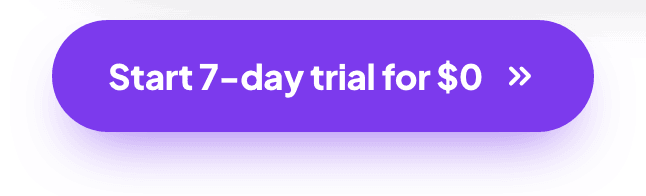
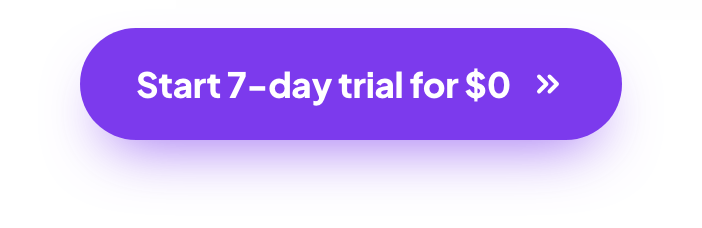
Add the Cloud or self-host choice, a moving demo and a star ask to the README.
- "Post today, not after the API reviews": two cards at the top of the
  cloud section. PostQueen Cloud (recommended) links to the trial; the
  self-hosted card says what running it takes, including waiting for
  each network's app review, and links to the self-hosting guide.
- The site's hero demo as a GIF under the badges (Claude plans a week,
  four posts land on the calendar), linked to the trial. It replaces the
  static app preview, which showed the same scene.
- "Like PostQueen? Star the repo" under the badges.
- Wider margins in every picture so shadows fade inside the image, and
  lossless PNGs for the purple ones, which showed a box on dark GitHub.

Changed region(s): [[0.0619, 0.0918, 0.9288, 0.7959], [0.1548, 0.3061, 0.8359, 0.5204]]

diff --git a/README.md b/README.md
@@ -20,7 +20,7 @@
 </p>
 
 <p align="center">
-  <a href="https://app.postqueen.ai/auth?utm_source=github&utm_medium=readme&utm_campaign=postqueen-app&utm_content=hero-button"><picture><source media="(prefers-color-scheme: dark)" srcset=".github/assets/showcase/btn-trial-dark.png"><img src=".github/assets/showcase/btn-trial-light.png" width="323" alt="Start 7-day trial for $0"></picture></a><a href="https://docs.postqueen.ai/agents/overview"><picture><source media="(prefers-color-scheme: dark)" srcset=".github/assets/showcase/btn-agent-dark.png"><img src=".github/assets/showcase/btn-agent-light.png" width="297" alt="Connect your AI agent"></picture></a>
+  <a href="https://app.postqueen.ai/auth?utm_source=github&utm_medium=readme&utm_campaign=postqueen-app&utm_content=hero-button"><picture><source media="(prefers-color-scheme: dark)" srcset=".github/assets/showcase/btn-trial-dark.png"><img src=".github/assets/showcase/btn-trial-light.png" width="351" alt="Start 7-day trial for $0"></picture></a><a href="https://docs.postqueen.ai/agents/overview"><picture><source media="(prefers-color-scheme: dark)" srcset=".github/assets/showcase/btn-agent-dark.png"><img src=".github/assets/showcase/btn-agent-light.png" width="325" alt="Connect your AI agent"></picture></a>
 </p>
 
 <p align="center">
@@ -46,6 +46,14 @@
 </p>
 
 <p align="center">
+  <a href="https://github.com/GkhanKINAY/postqueen-app/stargazers"><picture><source media="(prefers-color-scheme: dark)" srcset=".github/assets/showcase/star-dark.png"><img src=".github/assets/showcase/star-light.png" width="380" alt="Like PostQueen? Star the repo. It helps others find it."></picture></a>
+</p>
+
+<p align="center">
+  <a href="https://app.postqueen.ai/auth?utm_source=github&utm_medium=readme&utm_campaign=postqueen-app&utm_content=demo-gif"><img src=".github/assets/showcase/demo.gif" width="100%" alt="Demo: in Claude, someone asks PostQueen to plan next week's posts for Instagram, TikTok, LinkedIn and X. Claude uses three PostQueen tools, and four posts appear on the PostQueen calendar."></a>
+</p>
+
+<p align="center">
   <a href="https://docs.postqueen.ai/agents/overview"><picture><source media="(prefers-color-scheme: dark)" srcset=".github/assets/showcase/works-dark.png"><img src=".github/assets/showcase/works-light.png" width="100%" alt="Use the agent you already have: Claude, ChatGPT, Grok Bot (new), Grok, Perplexity, Muse (new), Claude Code, Codex, Cursor, Gemini CLI, VS Code, Devin Desktop, Zed, OpenClaw, Hermes, NanoClaw, Paperclip and any MCP app. Posts to 30+ networks."></picture></a>
 </p>
 
@@ -63,11 +71,6 @@
 - **Analytics** for the networks that report them: X, Facebook, Instagram, LinkedIn Pages, YouTube, Threads, Pinterest, TikTok and Google Business Profile.
 - **Automation.** Auto Post publishes new items from your RSS feeds, Auto-Plugs reply or repost once a post takes off, webhooks tell your own systems when a post goes out, and time slots pick the next free time.
 - **Teams and clients.** Workspaces with roles, customers to group channels by client, signatures, reusable sets and notifications.
-
-<picture>
-  <source media="(prefers-color-scheme: dark)" srcset=".github/assets/app-preview-dark.png">
-  <img src=".github/assets/app-preview-light.png" width="100%" alt="The PostQueen app: an AI agent uses three PostQueen tools to plan four posts, and they appear on the week calendar next to the chat.">
-</picture>
 
 ## Four ways to post
 
@@ -162,7 +165,14 @@ The key address has 21 tools: 20 for channels, posts, media, images, video and a
 
 ## PostQueen Cloud or self-hosted
 
-**PostQueen Cloud is the fastest way to start**, and the recommended one. The same open-source app, run for you.
+**PostQueen Cloud is the fastest way to start**, and the recommended one: the same open-source app, run for you, so you can post today instead of waiting weeks for each network to approve an app of your own.
+
+<p align="center">
+  <a href="https://app.postqueen.ai/auth?utm_source=github&utm_medium=readme&utm_campaign=postqueen-app&utm_content=choose-cloud"><picture><source media="(prefers-color-scheme: dark)" srcset=".github/assets/showcase/choose-cloud-dark.png"><img src=".github/assets/showcase/choose-cloud-light.png" width="49%" alt="PostQueen Cloud, recommended: post today, not after the API reviews. PostQueen's own network apps, the hosted MCP server, AI included, updates and support handled. Start 7-day trial for $0, $0 due today."></picture></a>
+  <a href="https://docs.postqueen.ai/installation/overview"><picture><source media="(prefers-color-scheme: dark)" srcset=".github/assets/showcase/choose-self-dark.png"><img src=".github/assets/showcase/choose-self-light.png" width="49%" alt="Self-hosted, AGPL-3.0: run it on your own servers with PostgreSQL, Redis and Temporal, create a developer app on every network and wait for its review, bring your own AI keys, and handle updates yourself. Self-hosting guide."></picture></a>
+</p>
+
+The details, side by side:
 
 | | **PostQueen Cloud** (recommended) | Self-hosted |
 | --- | --- | --- |
@@ -175,7 +185,7 @@ The key address has 21 tools: 20 for channels, posts, media, images, video and a
 | Price | 7-day trial, $0 due today, then your plan ([pricing](https://postqueen.ai/pricing?utm_source=github&utm_medium=readme&utm_campaign=postqueen-app)) | Free under AGPL-3.0, plus your servers |
 
 <p align="center">
-  <a href="https://app.postqueen.ai/auth?utm_source=github&utm_medium=readme&utm_campaign=postqueen-app&utm_content=cloud-table"><picture><source media="(prefers-color-scheme: dark)" srcset=".github/assets/showcase/btn-trial-dark.png"><img src=".github/assets/showcase/btn-trial-light.png" width="323" alt="Start 7-day trial for $0"></picture></a><a href="https://docs.postqueen.ai/agents/overview"><picture><source media="(prefers-color-scheme: dark)" srcset=".github/assets/showcase/btn-agent-dark.png"><img src=".github/assets/showcase/btn-agent-light.png" width="297" alt="Connect your AI agent"></picture></a>
+  <a href="https://app.postqueen.ai/auth?utm_source=github&utm_medium=readme&utm_campaign=postqueen-app&utm_content=cloud-table"><picture><source media="(prefers-color-scheme: dark)" srcset=".github/assets/showcase/btn-trial-dark.png"><img src=".github/assets/showcase/btn-trial-light.png" width="351" alt="Start 7-day trial for $0"></picture></a><a href="https://docs.postqueen.ai/agents/overview"><picture><source media="(prefers-color-scheme: dark)" srcset=".github/assets/showcase/btn-agent-dark.png"><img src=".github/assets/showcase/btn-agent-light.png" width="325" alt="Connect your AI agent"></picture></a>
 </p>
 
 **Self-hosting instead?** [postqueen-docker-compose](https://github.com/GkhanKINAY/postqueen-docker-compose) runs the app with PostgreSQL, Redis and a Temporal cluster on one host, and [postqueen-helmchart](https://github.com/GkhanKINAY/postqueen-helmchart) runs it on Kubernetes with a Temporal server you provide. The [self-hosting guide](https://docs.postqueen.ai/installation/overview) covers both, and the [provider guides](https://docs.postqueen.ai/installation/providers/overview) cover each network's developer app.
